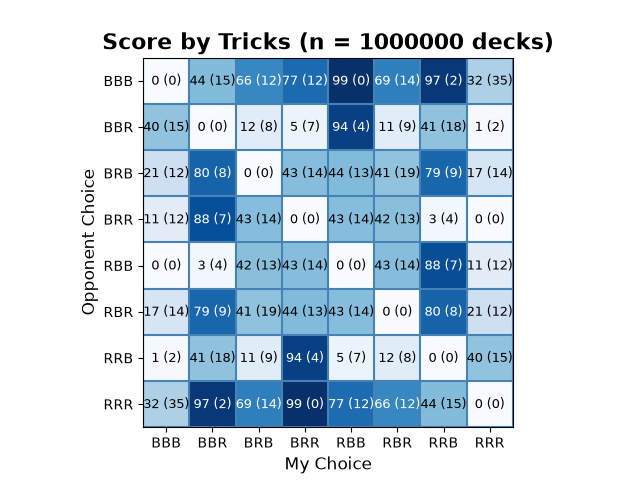
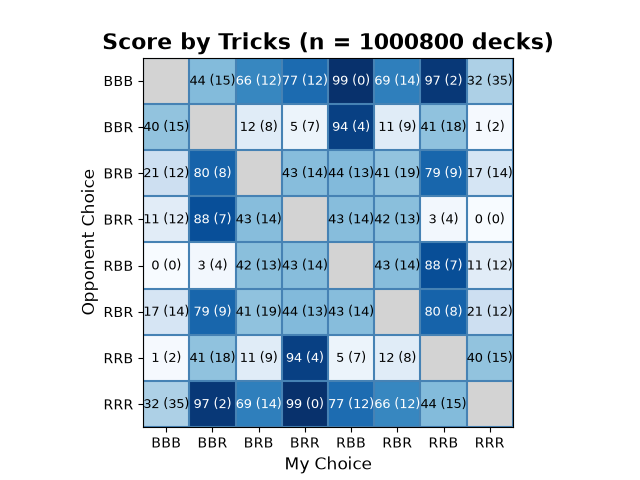
Grayed out the cells on diagonal that are 0(0)

Changed region(s): [[0.4375, 0.4062, 0.8125, 0.9062], [0.2188, 0.125, 0.4375, 0.4062], [0.6562, 0.0625, 0.6875, 0.0938]]

diff --git a/src/datavis.py b/src/datavis.py
@@ -50,9 +50,15 @@ def plot_heatmap(win_data, tie_data, title, output_path):
     Draws heatmap
     '''
     fig, ax = plt.subplots()
-    cmap = plt.get_cmap("Blues")
-    ax.imshow(win_data, cmap=cmap, vmin=0, vmax=100)
+    #cmap = plt.get_cmap("Blues")
+    masked_data = np.ma.masked_where((win_data == 0) & (tie_data == 0), win_data) #mask data to get grayed out cells  
+    newcmap = plt.get_cmap("Blues").copy()
+    newcmap.set_bad(color="lightgray")
+    ax.imshow(masked_data, cmap=newcmap, vmin=0, vmax=100)
     n_rows, n_cols = win_data.shape
+ 
+
+    
 
     #sets grid lines and ticks
     ax.set_xticks(np.arange(-0.5, n_cols, 1), minor=True)
@@ -70,7 +76,9 @@ def plot_heatmap(win_data, tie_data, title, output_path):
         for j in range(n_cols):
             win_val = win_data[i][j]
             tie_val = tie_data[i][j]
-            r, g, b, _ = cmap(win_val / 100)
+            if win_val == 0 and tie_val == 0: 
+                continue # leaves the diagonal cells blank 
+            r, g, b, _ = newcmap(win_val / 100)
             luminance = 0.299 * r + 0.587 * g + 0.114 * b
             text_color = "white" if luminance < 0.5 else "black"
             ax.text(
